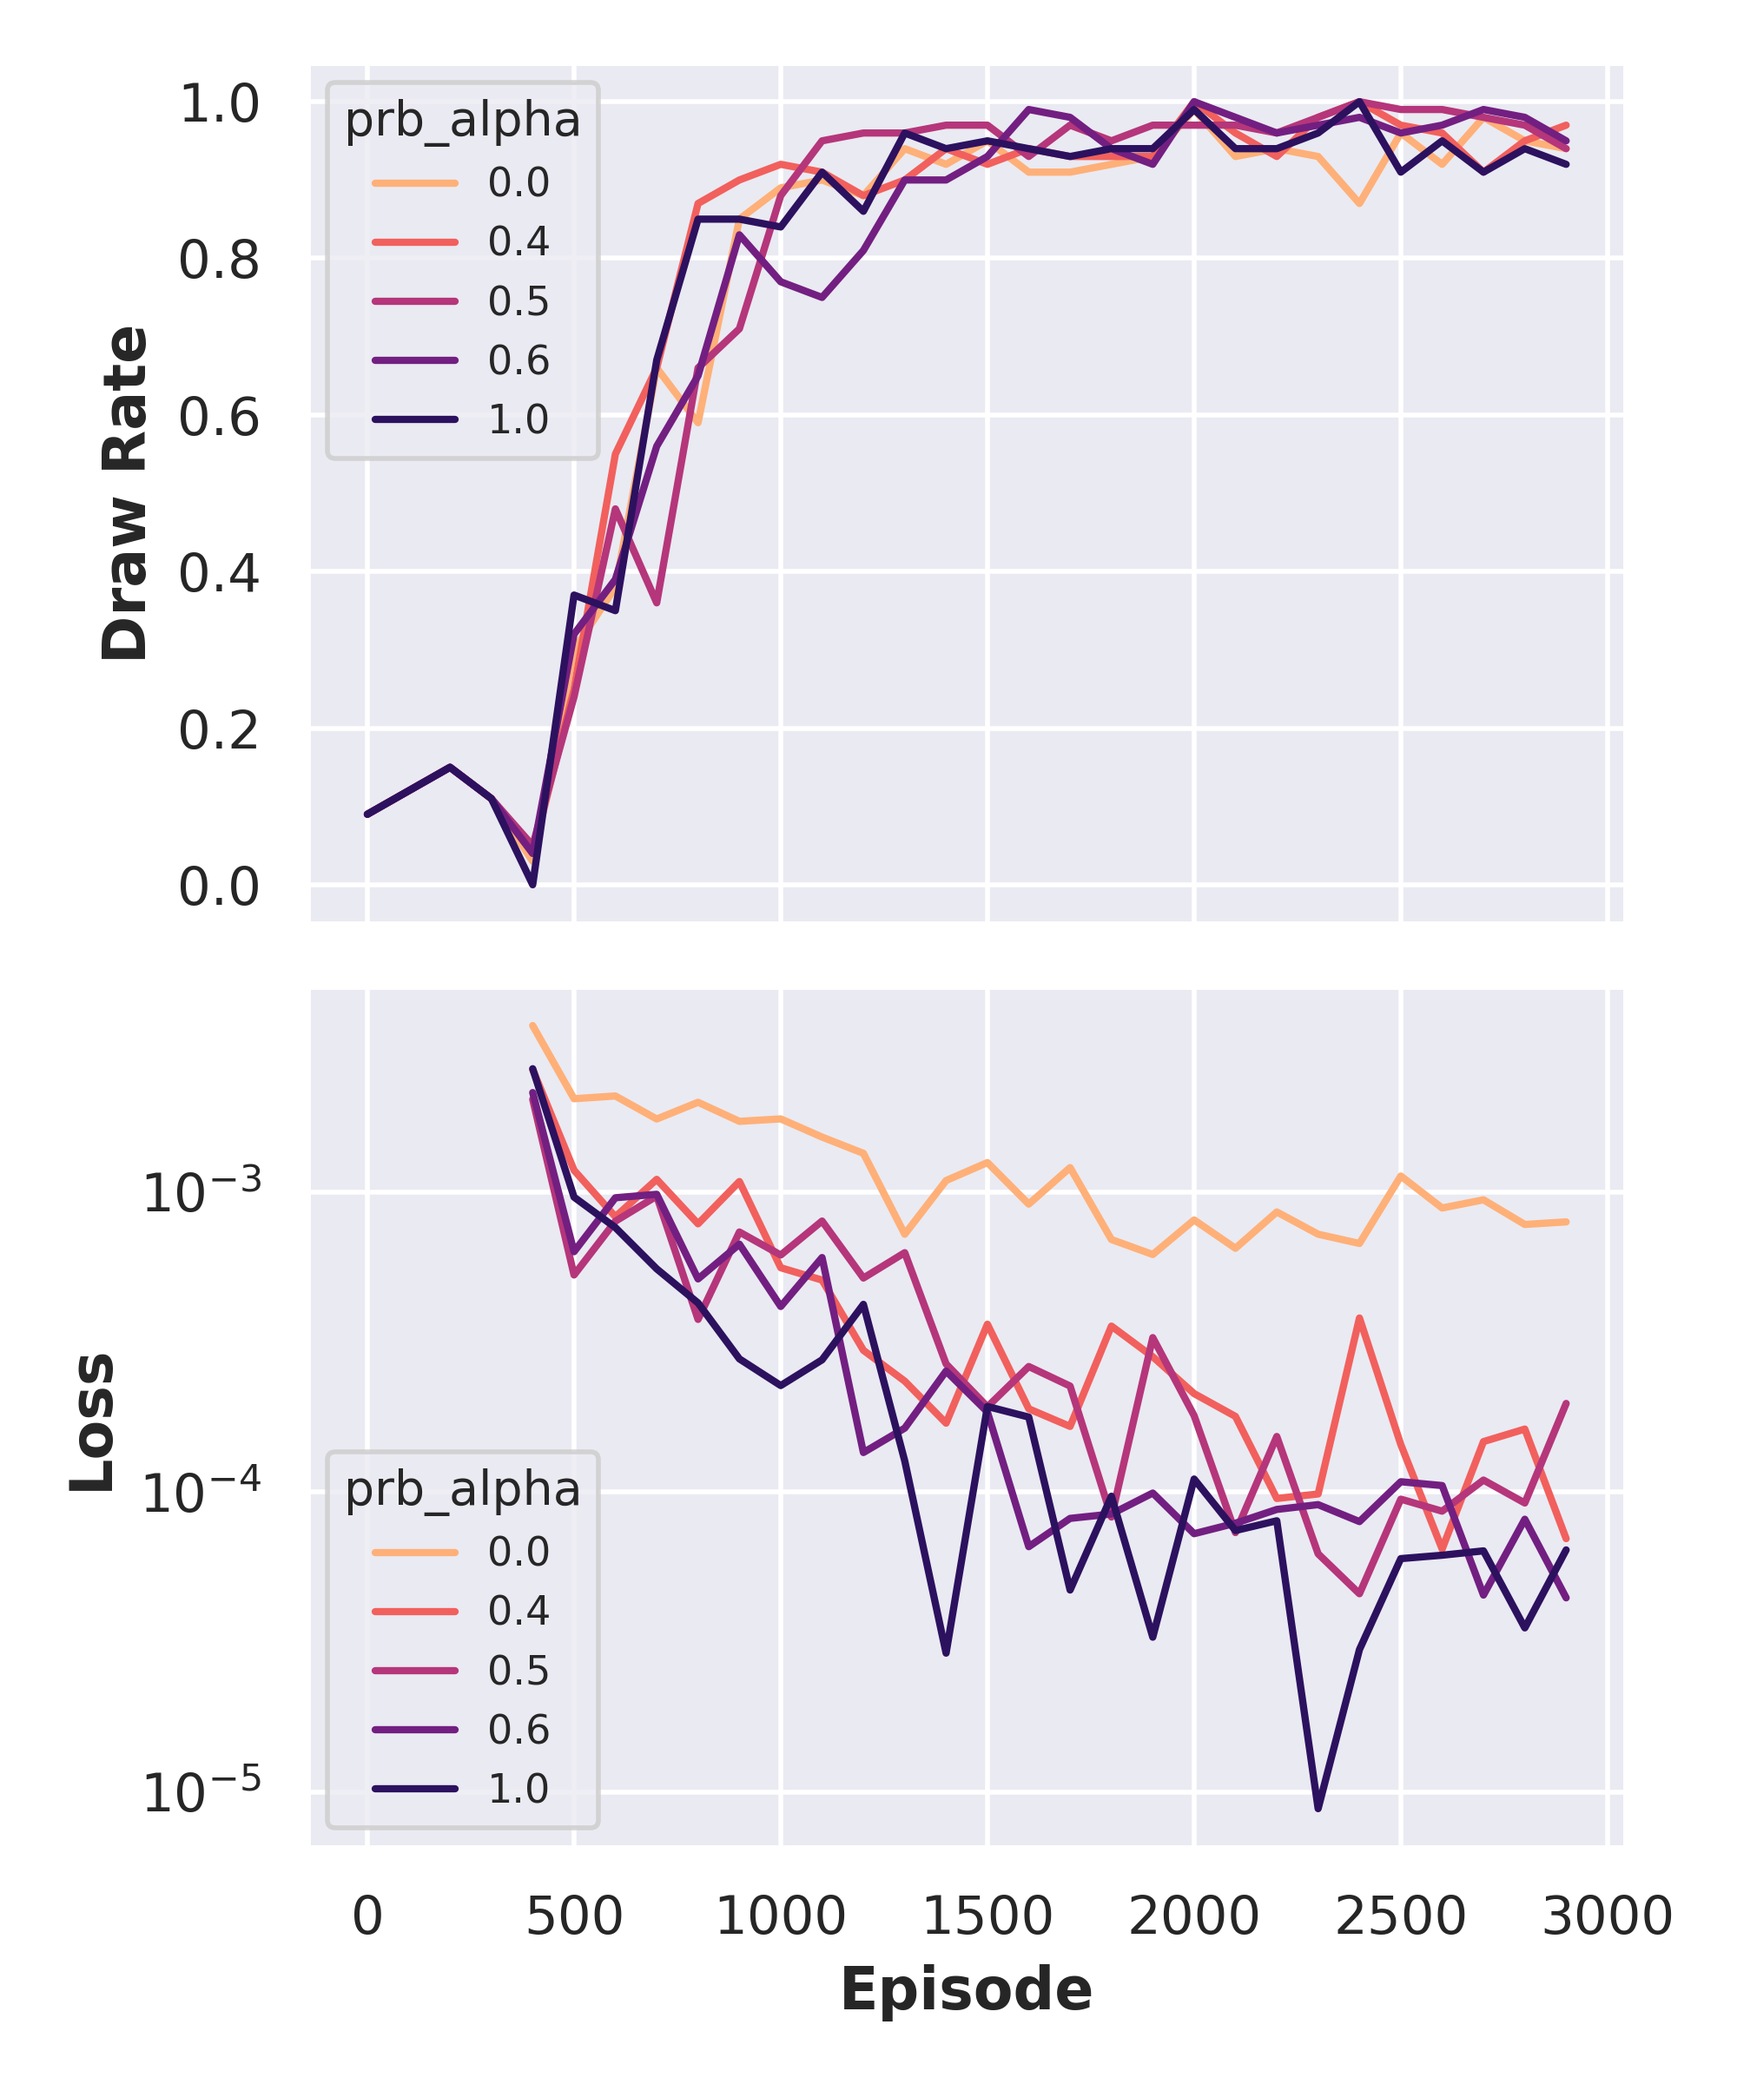
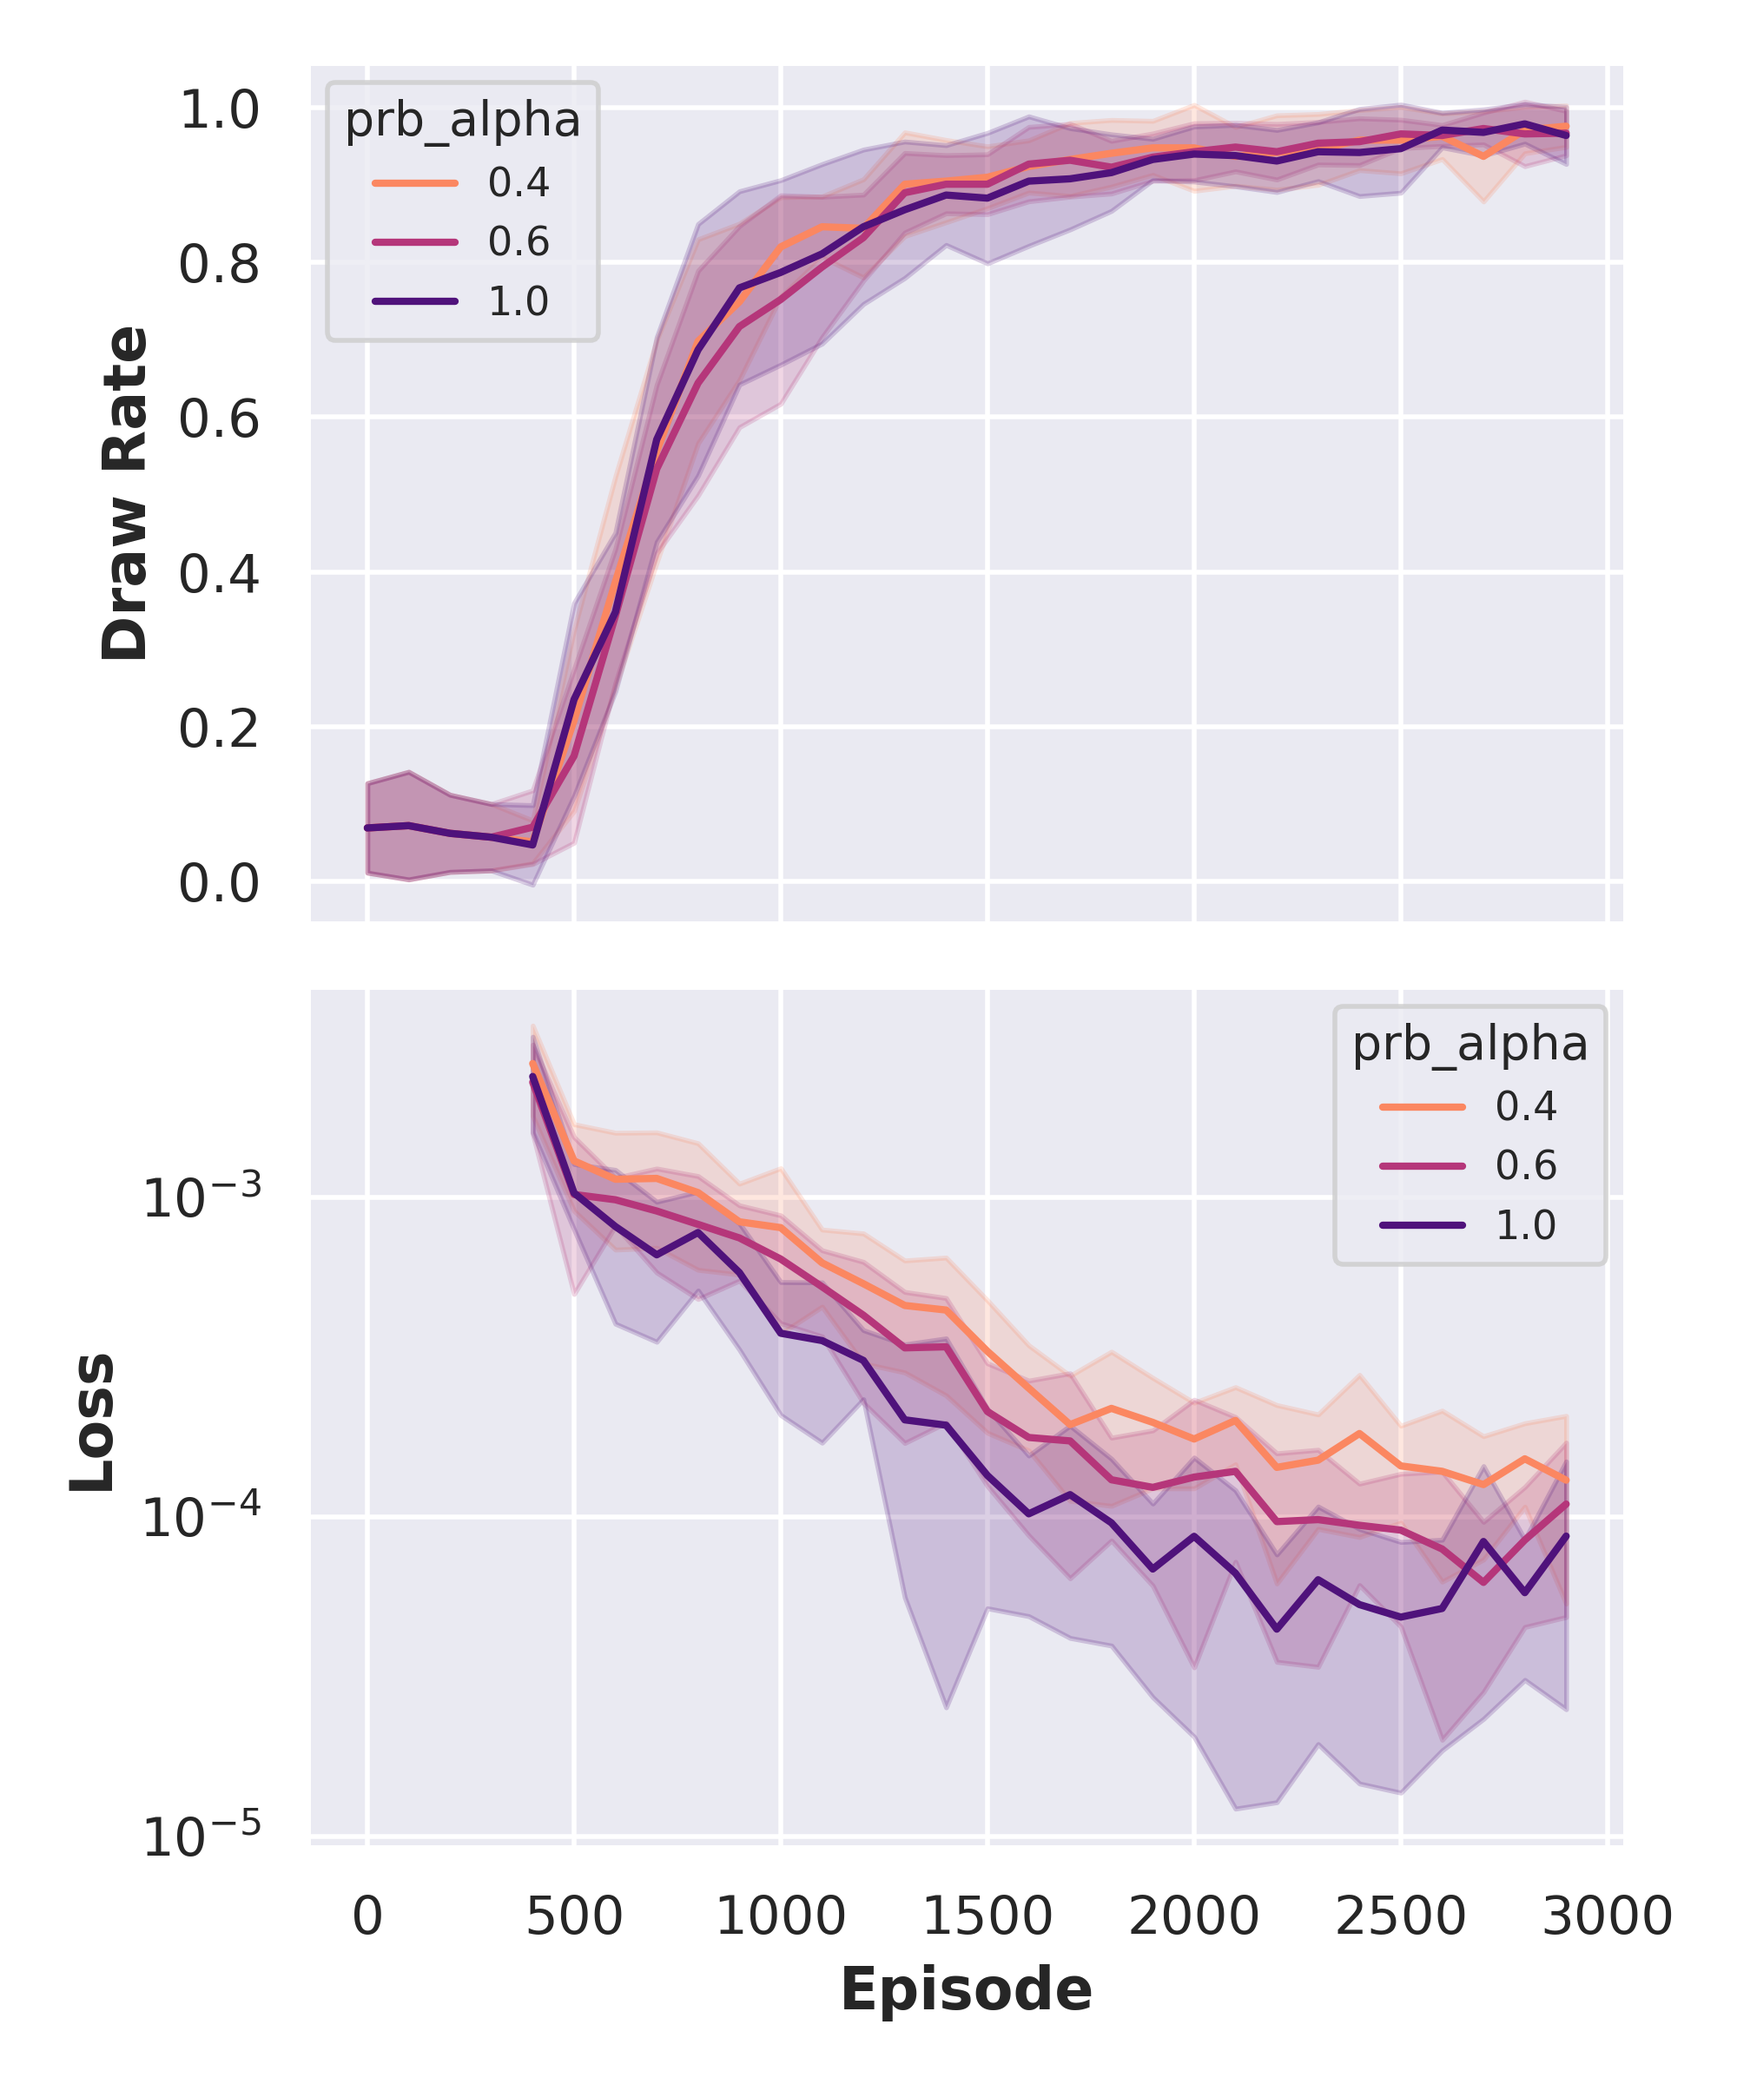
Finalise Tic-Tac-Toe series

diff --git a/_posts/2025-06-14-computers-learning-tic-tac-toe-advanced-deep-q.md b/_posts/2025-06-14-computers-learning-tic-tac-toe-advanced-deep-q.md
@@ -84,7 +84,7 @@ Only this change is required in code — but it makes a significant difference i
 
 <!-- Elegant Sweep Variable Selector -->
 <div class="sweep-selector">
-  <select id="plotSelector" onchange="updateImage()">
+  <select id="plotSelector1" onchange="updateImage()">
     <option value="target_update_freq">Hard Update: Frequency</option>
     <option value="target_update_tau">Soft Update: Tau</option>
   </select>
@@ -93,7 +93,7 @@ Only this change is required in code — but it makes a significant difference i
 
 <!-- Display the selected plot -->
 <figure>
-<img id="plotImage" src="{{ site.baseurl }}/assets/img/tictactoe-python/vanilla_dqn_target_update_freq_sweep.png" width="100%" alt="Parameter sweep Plot"/>
+<img id="plotImage1" src="{{ site.baseurl }}/assets/img/tictactoe-python/vanilla_dqn_target_update_freq_sweep.png" width="100%" alt="Parameter sweep Plot"/>
   <figcaption>
  <strong>Figure 1</strong>: Performance and training loss of vanilla DQN agent against random minmax agent as a function of target network update strategy. The parameter baseline is set as follows: 3000 training episodes, evaluation every 100 episodes across 100 games, a discount factor of 0.8, learning rate of 0.01 without decay, and initial exploration rate of 1.0 with exponential decay of 0.01 per game down to 0.1. The agent uses a batch size of 128, a replay buffer of size 10,000 with a minimum of 1,000 experiences before training, and two gradient updates per training step. The agents only take legal actions. Shaded areas show standard deviation of draw rate across ten runs with different random seeds. The algorithm uses a network with a single hidden layer with 128 neurons.
 </figcaption>
@@ -102,9 +102,9 @@ Only this change is required in code — but it makes a significant difference i
 
 <script>
   function updateImage() {
-    const variable = document.getElementById("plotSelector").value;
+    const variable = document.getElementById("plotSelector1").value;
     const imagePath = `{{ site.baseurl }}/assets/img/tictactoe-python/vanilla_dqn_${variable}_sweep.png`;
-    const img = document.getElementById("plotImage");
+    const img = document.getElementById("plotImage1");
     img.src = imagePath;
     img.alt = `${variable} Sweep Plot`;
   }
@@ -141,8 +141,8 @@ Only this one‑line change is required in the learning update. While the perfor
 ### Duelling DQN – separate value from advantage
 
 The introduction of duelling networks by <a href="https://arxiv.org/abs/1511.06581">Wang et al. (2016)</a> was guided by the realisation that on many steps the choice of action barely matters (think: standing still in *Pong* between bounces).
-Yet the vanilla Q‑network must still back‑propagate a distinct value for every one of those near‑equivalent actions.
-They proposed a network that first produces a **state‑value** $$V_\phi(s)$$ and an **advantage** vector $$A_\psi(s,a)$$; it then recombines them into Q‑values:
+Yet, the vanilla Q‑network must still back‑propagate a distinct value for every one of those near‑equivalent actions.
+Wang et al. proposed a network that first produces a **state‑value** $$V_\phi(s)$$ and an **advantage** vector $$A_\psi(s,a)$$; it then recombines them into Q‑values:
 
 $$
 Q(s,a) \;=\; V_\phi(s)
@@ -250,7 +250,7 @@ The interactive sweep below shows how they matter in the Tic‑Tac‑Toe experim
 
 <!-- Elegant Sweep Variable Selector -->
 <div class="sweep-selector">
-  <select id="plotSelector" onchange="updateImage()">
+  <select id="plotSelector2" onchange="updateImage2()">
     <option value="prb_alpha">Error prioritisation: Alpha</option>
     <option value="prb_beta0">Initial bias correction: Beta</option>
     <option value="prb_beta_steps"># Gradient updates until beta is 1</option>
@@ -260,25 +260,24 @@ The interactive sweep below shows how they matter in the Tic‑Tac‑Toe experim
 
 <!-- Display the selected plot -->
 <figure>
-<img id="plotImage" src="{{ site.baseurl }}/assets/img/tictactoe-python/per_dqn_prb_alpha_sweep.png" width="100%" alt="Parameter sweep Plot"/>
+<img id="plotImage2" src="{{ site.baseurl }}/assets/img/tictactoe-python/per_dqn_prb_alpha_sweep.png" width="100%" alt="Parameter sweep Plot"/>
   <figcaption>
-  <strong>Figure 7</strong>: Performance and training loss of PER agent against random minmax agent as a function of PER hyperparameters. Hyperparameters as in Figure 1 with the newly added error priorisation of 0.6, an initial bias correction of 0.4 and 3000, training steps until beta is annealed.
+  <strong>Figure 7</strong>: Performance and training loss of PER agent against random minmax agent as a function of PER hyperparameters. Hyperparameters as in Figure 1 with the newly added error priorisation of 0.6, an initial bias correction of 0.4 and 3,000 training steps until beta is annealed.
 </figcaption>
 </figure>
 
 
 <script>
-  function updateImage() {
-    const variable = document.getElementById("plotSelector").value;
+  function updateImage2() {
+    const variable = document.getElementById("plotSelector2").value;
     const imagePath = `{{ site.baseurl }}/assets/img/tictactoe-python/per_dqn_${variable}_sweep.png`;
-    const img = document.getElementById("plotImage");
+    const img = document.getElementById("plotImage2");
     img.src = imagePath;
     img.alt = `${variable} Sweep Plot`;
   }
 </script>
 
-
-On Tic‑Tac‑Toe both vanilla DQN and PER‑DQN quickly discover a near‑draw policy, leaving few hard situations to learn from.  To make the difference visible we therefore froze a dataset of **10 000 random‑play transitions** and trained both agents *offline*.  The tables in Figure 8 show how often each board state is replayed.
+As you can see, the differences between different hyperparameters are marginal. This is because on Tic‑Tac‑Toe both vanilla DQN and PER‑DQN quickly discover a near‑draw policy, leaving few hard situations to learn from. To make the difference between the algorithms visible I therefore freeze a dataset of **10 000 random‑play transitions** and train both agents *offline*.  The tables in Figure 8 show how often each board state is replayed.
 
 <figure>
   <iframe src="{{ site.baseurl }}/assets/img/tictactoe-python/22_vanilla_dqn_visit_table.html" width="100%" height="600" frameborder="0"></iframe>
@@ -286,7 +285,7 @@ On Tic‑Tac‑Toe both vanilla DQN and PER‑DQN quickly discover a near‑dr
   <figcaption><strong>Figure 8</strong>: Number of state visits per state for vanilla DQN (top) and PER DQN (bottom) during offline training on static set of 10,000 transitions of two random agents playing against one another. PER quickly down‑weights the trivial opening position (state 0) and spends more time on deeper, more decisive boards.Training for 1000 training steps with 2 gradient updates per step and a batch size of 128 on a static training set let to a total of 256,000 state visits. Figure shows the subset of states shown in Figure 1.</figcaption>
 </figure>
 
-The corresponding TD‑error histograms in Figure 4 confirm the intuition: by replaying high‑error transitions more often PER flattens the right tail of the error distribution and equalises the visitation count across bins.
+The figure suggests that PER visits the trivial opening position less often and spends more time on deeper boards. The corresponding TD‑error histograms in Figure 4 confirm the intuition: by replaying high‑error transitions more often PER flattens the right tail of the error distribution and equalises the visitation count across bins.
 <figure>
   <iframe src="{{ site.baseurl }}/assets/img/tictactoe-python/24_td_error_distributions.html" width="100%" height="620" frameborder="0"></iframe>
   <figcaption><strong>Figure 9</strong>: TD error distributions for vanilla DQN and PER DQN during offline training on static set of 10,000 transitions of two random agents playing against one another. Training for 1000 training steps with 2 gradient updates per step and a batch size of 128. Darker colours indicate that states in the bin were visited more frequently.</figcaption>
@@ -302,6 +301,12 @@ Double DQN, Dueling networks and Prioritized replay complement each other neat
 2. swap the value‑function head for a Dueling head, and
 3. replace the FIFO buffer with the PER sum‑tree.
 
-On large, noisy tasks this trio is usually both **faster to learn** and **better at convergence** than plain DQN.  On tiny tabular games such as Tic‑Tac‑Toe the gains are minimal—linear programming or even exhaustive search still win.
+On large, noisy tasks this trio is usually both **faster to learn** and **better at convergence** than plain DQN.  On tiny tabular games such as Tic‑Tac‑Toe the gains are minimal—a tabular Q-agent still wins.
+
+<figure>
+<img src="{{ site.baseurl }}/assets/img/tictactoe-python/25_triple_dqn_agent_comparison.png" width="100%" alt="Double Duelling PER agent performance"/>
+<figcaption>Figure 10: Win rates across 1,000 games. The Double Duelling DQN using Prioritised Experience Replay performs only slightly better than the single-network DQN agent and is still slightly worse than the tabular Q-agent. It loses roughly 3% of the games going second against the random agent after around 25 minutes of training on a desktop CPU. Going first against the random player, it actually plays slightly worse and loses 5% of the time.</figcaption>
+</figure>
+
 
 In the next post we will take the upgraded agent to a tougher arena: *Bomberman*.  From there the road leads toward the full **Rainbow** combination with multi‑step returns, noisy nets and distributional value functions.
